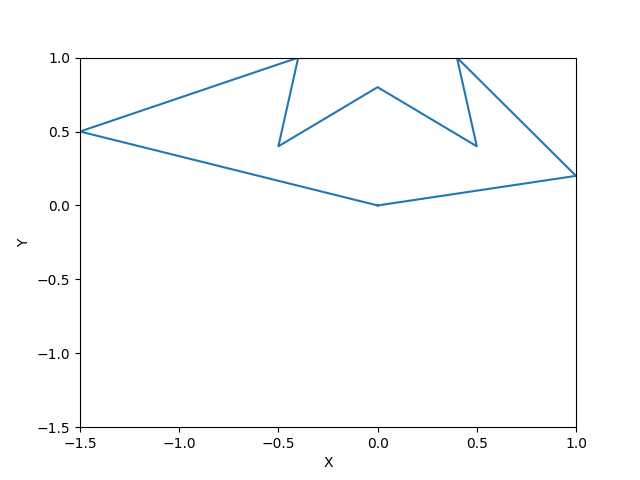
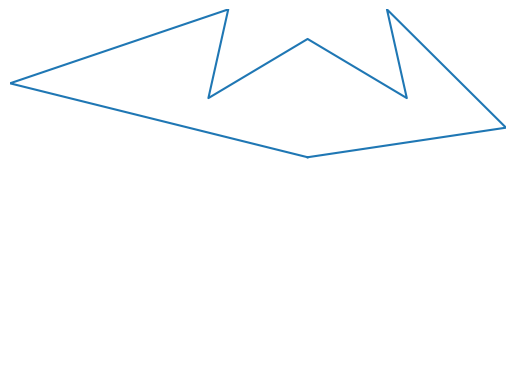
small improvements

diff --git a/main.py b/main.py
@@ -37,7 +37,8 @@ def show_matrices(matrices: list, labels: list, save=False):
         plt.grid(True)
         plt.legend()
     else:
-        plt.savefig('plot.png')
+        plt.axis('off')
+        plt.savefig('plot.png', bbox_inches='tight')
     plt.show()
 
 
@@ -101,20 +102,25 @@ def rotate_image(image, angle):
     (height, width) = image.shape[:2]
     center = (width // 2, height // 2)
     matrix = cv2.getRotationMatrix2D(center, angle, 1.0)
-    return cv2.warpAffine(image, matrix, (width, height))
+    return cv2.warpAffine(image, matrix, (width, height), borderMode=cv2.BORDER_REPLICATE)
 
 
 def scale_image(image, scale_x, scale_y):
-    scaled = cv2.resize(image, None, fx=scale_x, fy=scale_y)
-    return scaled
+    height, width = image.shape[:2]
+    new_width = int(width * scale_x)
+    new_height = int(height * scale_y)
+
+    return cv2.resize(image, (new_width, new_height))
 
 
 def reflect_image(image, axis):
     if axis == 'x':
-        reflected = cv2.flip(image, 0)
+        return cv2.flip(image, 0)
+    elif axis == 'y':
+        return cv2.flip(image, 1)
     else:
-        reflected = cv2.flip(image, 1)
-    return reflected
+        raise ValueError("Axis must be 'x' or 'y'.")
+
 
 def angle_image(image, k, axis):
     (height, width) = image.shape[:2]
@@ -122,8 +128,7 @@ def angle_image(image, k, axis):
         matrix = np.float32([[1, k, 0], [0, 1, 0]])
     else:
         matrix = np.float32([[1, 0, 0], [k, 1, 0]])
-    return cv2.warpAffine(image, matrix, (width, height))
-
+    return cv2.warpAffine(image, matrix, (width, height), borderMode=cv2.BORDER_REPLICATE)
 
 
 batman = np.array([[0, 0], [1, 0.2], [0.4, 1], [0.5, 0.4], [0, 0.8], [-0.5, 0.4], [-0.4, 1], [-1.5, 0.5], [0, 0]])
